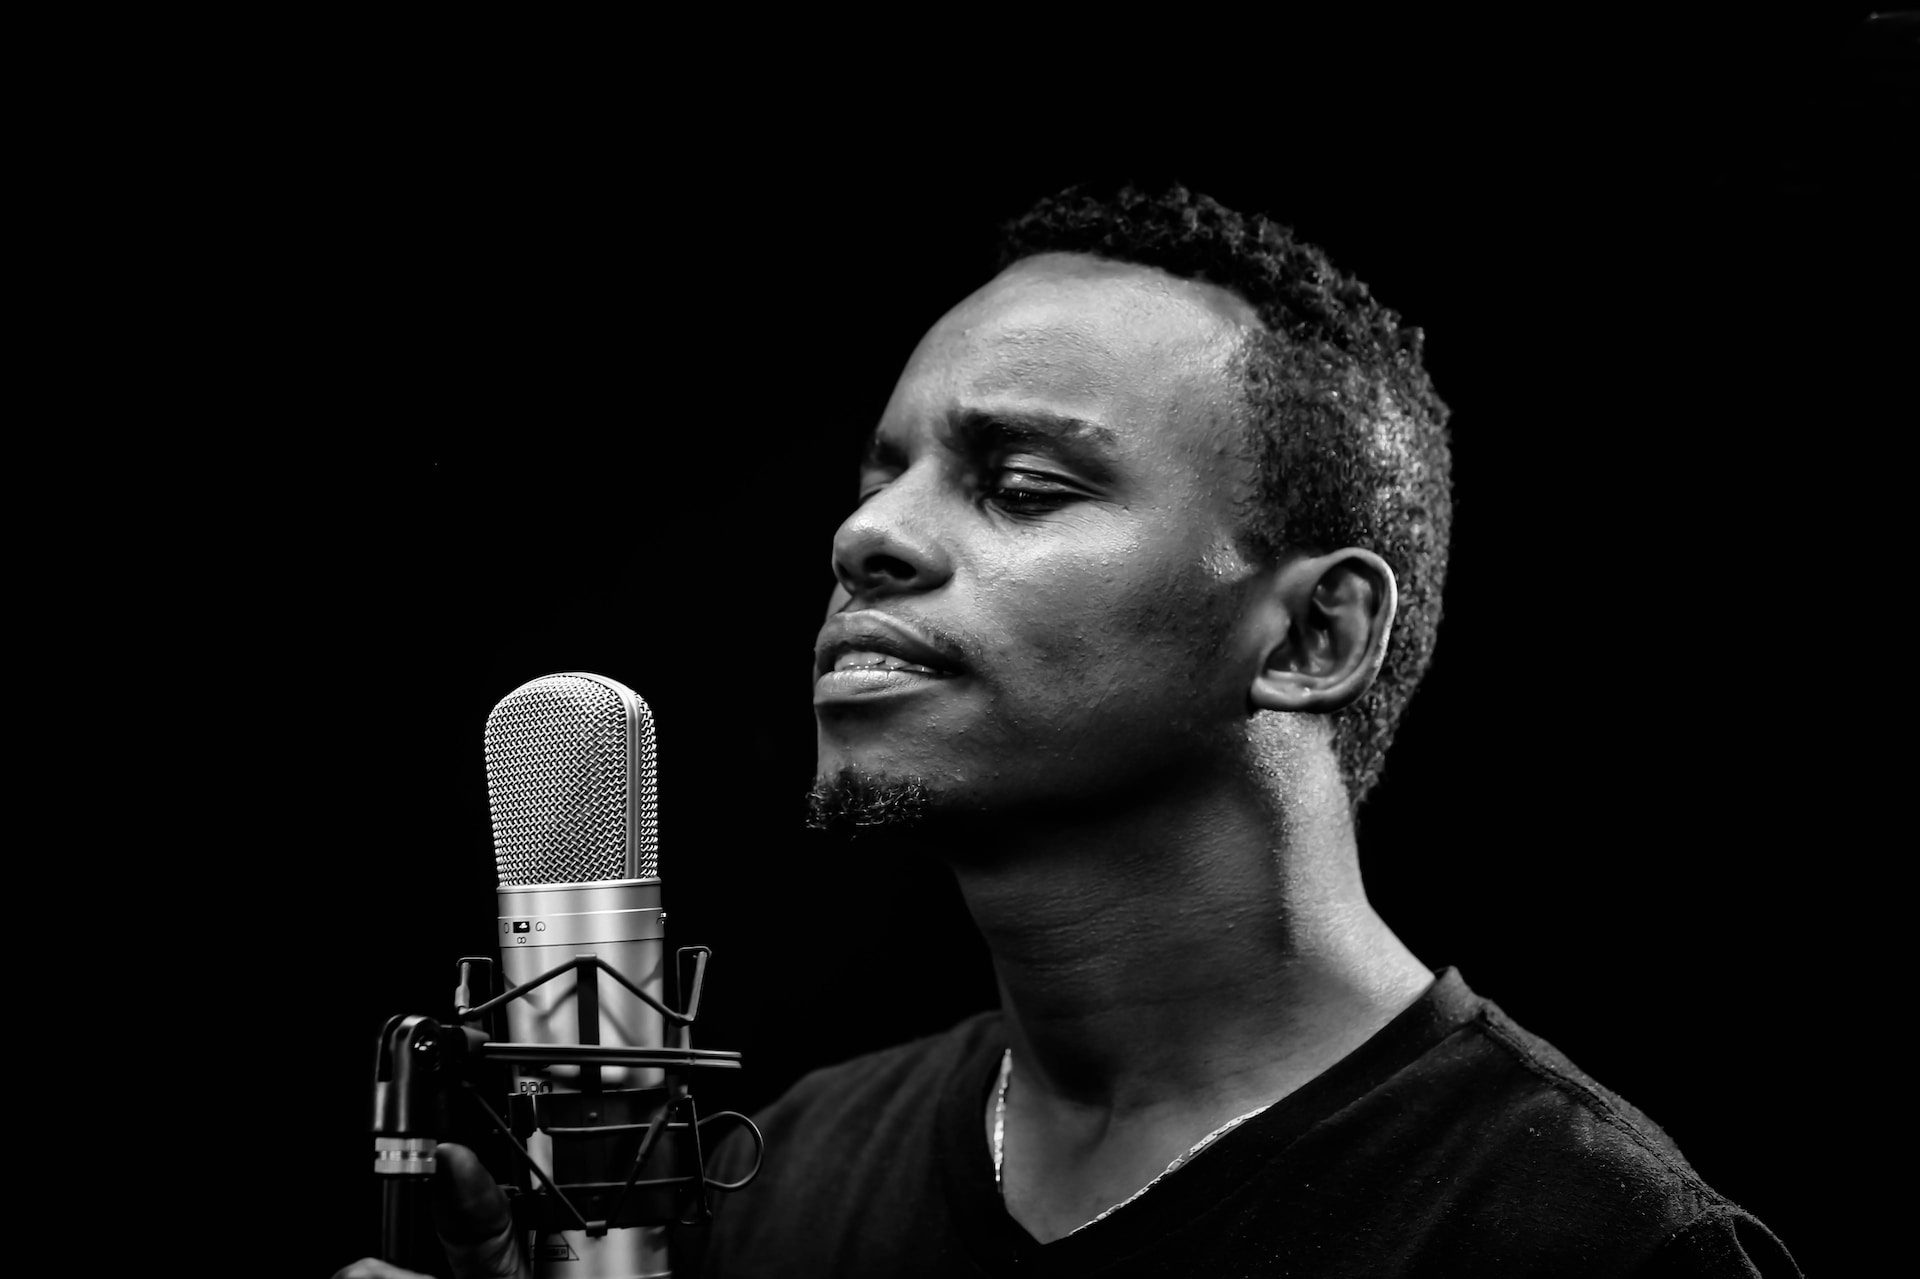
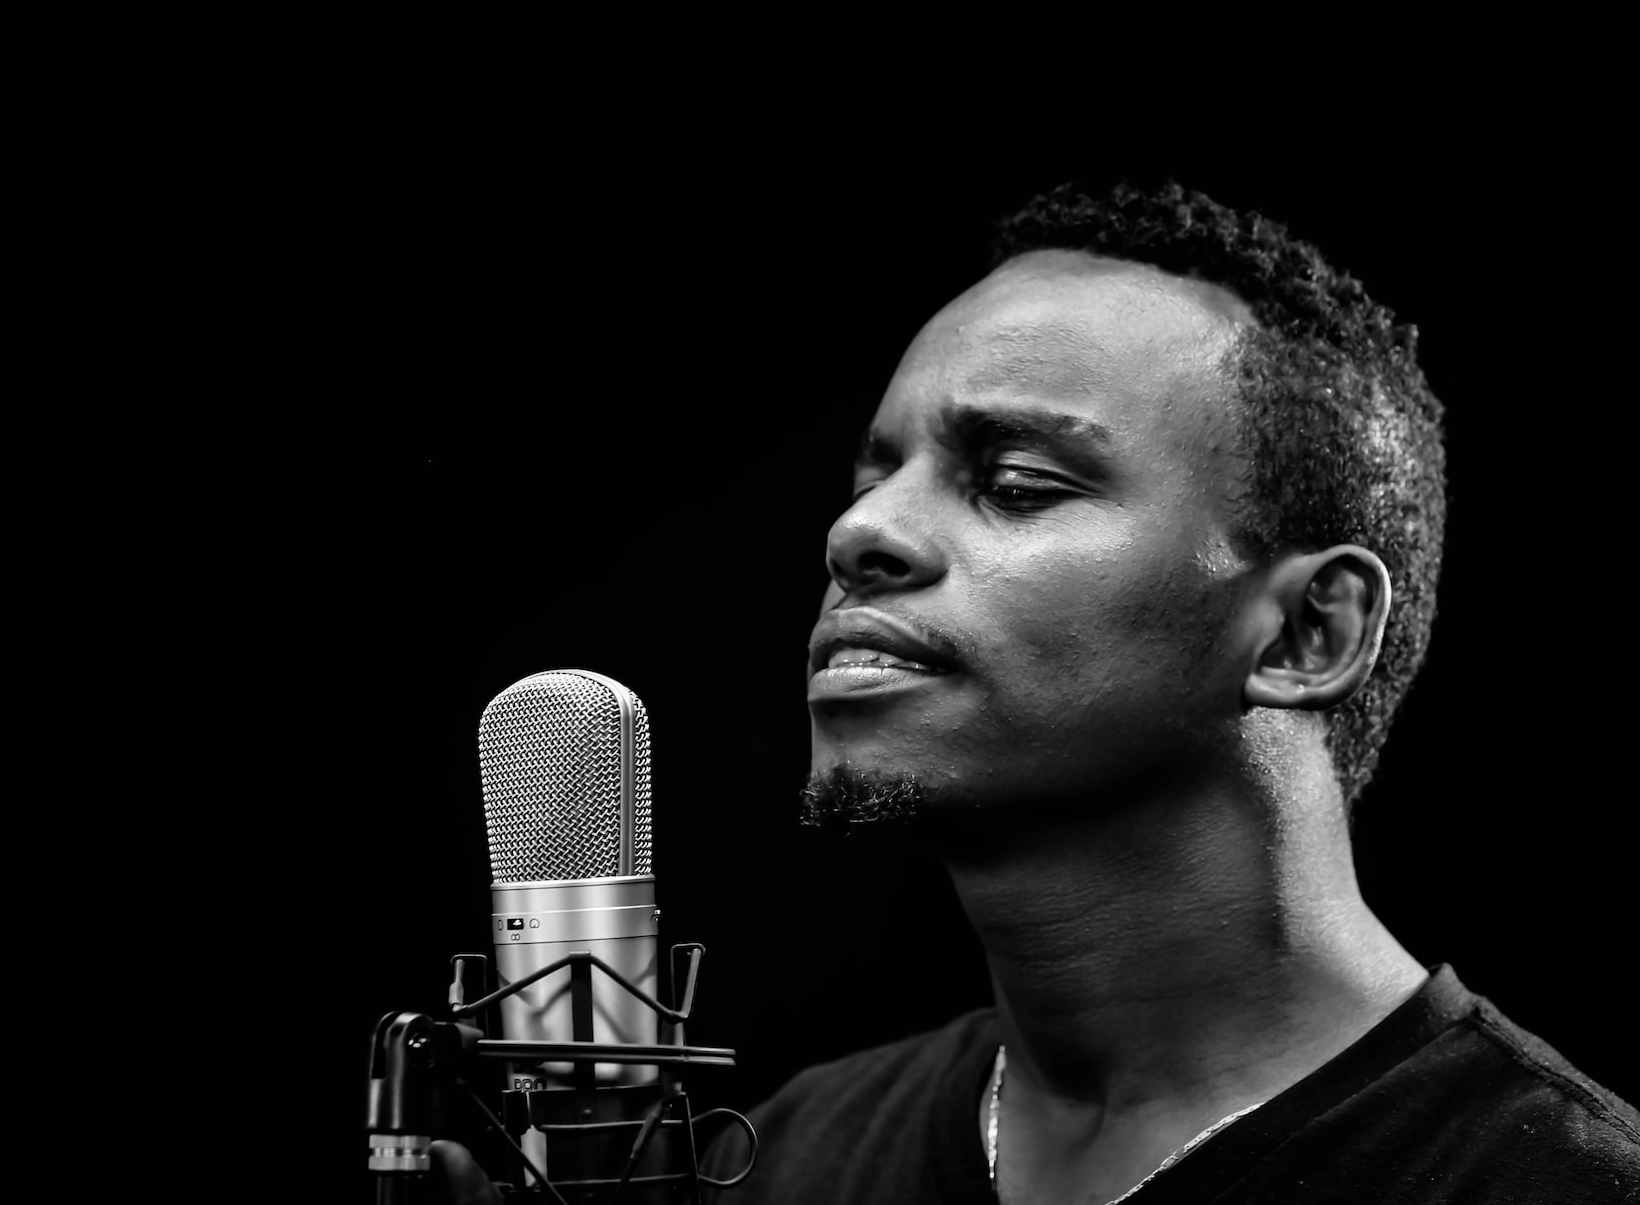
Edited theme.css, pics/Artist.png, theme/parameters.yaml and Main_Out

Changed region(s): [[0.1866, 0.1535, 1.0, 1.0], [0.1555, 0.9826, 0.2177, 1.0]]

diff --git a/theme/assets/theme.css b/theme/assets/theme.css
@@ -44,7 +44,11 @@ header>.nav-links>span {
     background-image: url(_/theme/pics/LoadingSpinner_circle.gif) !important;
 }
 
-.anvil-role-landingpage_noartists_background {
+.anvil-role-landingpage_artist_background {
+  background-image: url('_/theme/pics/Artist.png');
+  background-position: center center;
+  background-size: cover;
+}.anvil-role-landingpage_noartists_background {
   background-image: url('_/theme/pics/Fans.jpg');
   background-position: center center;
   background-size: cover;
